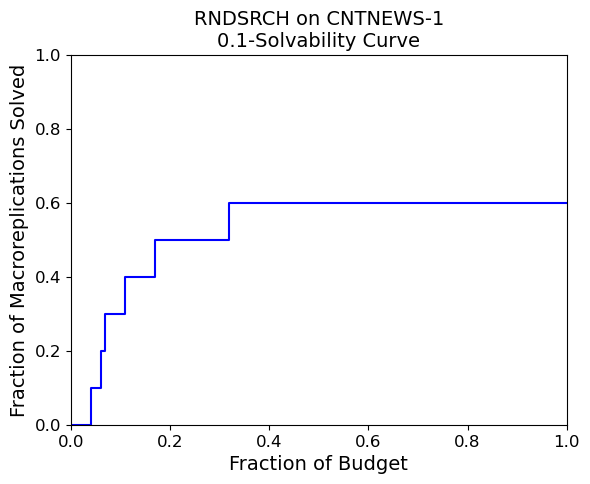
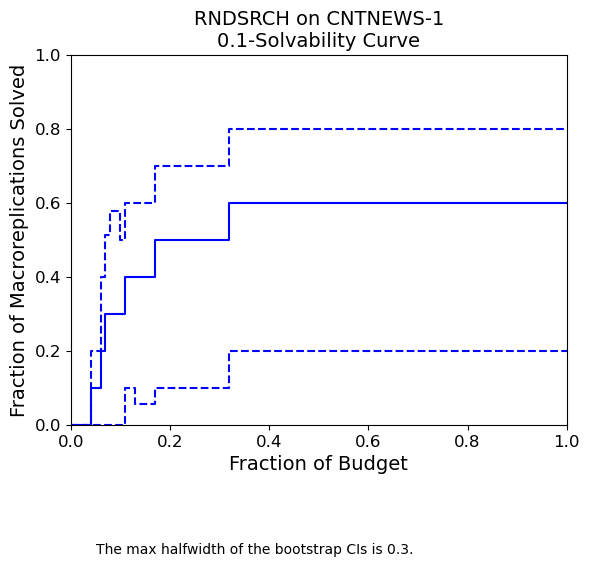
add bootstrap CIs to solvability curve
Add bootstrap CIs to solvability curve.

diff --git a/simopt/wrapper_base.py b/simopt/wrapper_base.py
@@ -80,7 +80,6 @@ class Experiment(object):
         crn_across_solns : bool
             indicates if CRN are used when simulating different solutions
         """
-        # initialize
         self.n_macroreps = n_macroreps
         # Create, initialize, and attach random number generators
         #     Stream 0: reserved for taking post-replications
@@ -219,41 +218,40 @@ class Experiment(object):
         plot_CIs : Boolean
             plot bootstrapping confidence intervals?
         """
-        # set up plot
+        # Set up plot.
         stylize_plot(plot_type=plot_type, solver_name=self.solver.name, problem_name=self.problem.name, normalize=normalize, budget=self.problem.budget, beta=beta)
-        # make the plot
         if plot_type == "all":
-            # plot all estimated progress curves
+            # Plot all estimated progress curves.
             if normalize is True:
                 for mrep in range(self.n_macroreps):
                     plt.step(self.unique_frac_budgets, self.all_prog_curves[mrep], where='post')
-            else:  # unnormalized
+            else:
                 for mrep in range(self.n_macroreps):
                     plt.step(self.unique_budgets, self.all_est_objective[mrep], where='post')
         elif plot_type == "mean":
-            # plot estimated mean progress curve
+            # Plot estimated mean progress curve.
             if normalize is True:
                 estimator = np.mean(self.all_prog_curves, axis=0)
                 plt.step(self.unique_frac_budgets, estimator, 'b-', where='post')
-            else:  # unnormalized
+            else:
                 estimator = np.mean(self.all_est_objective, axis=0)
                 plt.step(self.unique_budgets, estimator, 'b-', where='post')
         elif plot_type == "quantile":
-            # plot estimated beta quantile progress curve
+            # Plot estimated beta-quantile progress curve.
             if normalize is True:
                 estimator = np.quantile(self.all_prog_curves, q=beta, axis=0)
                 plt.step(self.unique_frac_budgets, estimator, 'b-', where='post')
-            else:  # unnormalized
+            else:
                 estimator = np.quantile(self.all_est_objective, q=beta, axis=0)
                 plt.step(self.unique_budgets, estimator, 'b-', where='post')
         else:
             print("Not a valid plot type.")
         if plot_type == "mean" or plot_type == "quantile":
-            # report bootstrapping error estimation and optionally plot bootstrap CIs
+            # Report bootstrapping error estimation and optionally plot bootstrap CIs.
             self.plot_bootstrap_CIs(plot_type, normalize, estimator, plot_CIs, beta)
         save_plot(plot_type=plot_type, normalize=normalize)
 
-    def plot_solvability_curve(self, solve_tol=0.50, plot_CIs=True):
+    def plot_solvability_curve(self, solve_tol=0.10, plot_CIs=True):
         """
         Plot the solvability curve for a single solver-problem pair.
         Optionally plot bootstrap CIs.
@@ -268,15 +266,20 @@ class Experiment(object):
         stylize_solvability_plot(solver_name=self.solver.name, problem_name=self.problem.name, solve_tol=solve_tol)
         # Compute solve times. Ignore quantile calculations.
         self.compute_solvability_quantile(compute_CIs=False, solve_tol=solve_tol)
-        # Construct full matrix showing when macroreplications are solved.
+        # Construct matrix showing when macroreplications are solved.
         solve_matrix = np.zeros((self.n_macroreps, len(self.unique_frac_budgets)))
-        # Pass over progress curve to find first solve_tol crossing time.
+        # Pass over progress curves to find first solve_tol crossing time.
         for mrep in range(self.n_macroreps):
             for budget_index in range(len(self.unique_frac_budgets)):
                 if self.solve_times[mrep] <= self.unique_frac_budgets[budget_index]:
                     solve_matrix[mrep][budget_index] = 1
+        # Compute proportion of macroreplications "solved" by intermediate budget.
         estimator = np.mean(solve_matrix, axis=0)
+        # Plot solvability curve.
         plt.step(self.unique_frac_budgets, estimator, 'b-', where='post')
+        if plot_CIs is True:
+            # Report bootstrapping error estimation and optionally plot bootstrap CIs.
+            self.plot_bootstrap_CIs(plot_type="solvability", normalize=True, estimator=estimator, plot_CIs=plot_CIs)
         save_plot(plot_type="solvability", normalize=True)
 
     def compute_area_stats(self, compute_CIs=True):
@@ -300,7 +303,7 @@ class Experiment(object):
             lower_bound, upper_bound, _ = self.bootstrap_CI(plot_type="area_std_dev", normalize=True, estimator=[self.area_std_dev], n_bootstraps=100, conf_level=0.95, bias_correction=True)
             self.area_std_dev_CI = [lower_bound[0], upper_bound[0]]
 
-    def compute_solvability_quantile(self, compute_CIs=True, solve_tol=0.5, beta=0.5):
+    def compute_solvability_quantile(self, compute_CIs=True, solve_tol=0.10, beta=0.50):
         """
         Compute beta quantile of alpha-solve time.
         Optionally compute bootstrap confidence intervals.
@@ -316,7 +319,8 @@ class Experiment(object):
         """
         self.solve_tol = solve_tol
         self.solve_times = [solve_time_of_prog_curve(prog_curve, self.unique_frac_budgets, self.solve_tol) for prog_curve in self.all_prog_curves]
-        self.solve_time_quantile = np.quantile(self.solve_times, q=beta, interpolation="higher")
+        self.solve_time_quantile = np.quantile(self.solve_times, q=beta)
+        # The default method for np.quantile is a *linear* interpolation.
         if compute_CIs is True:
             lower_bound, upper_bound, _ = self.bootstrap_CI(plot_type="solve_time_quantile", normalize=True, estimator=[self.solve_time_quantile], beta=beta)
             self.solve_time_quantile_CI = [lower_bound[0], upper_bound[0]]
@@ -415,6 +419,7 @@ class Experiment(object):
                 "area_mean" : mean of area under convergence curve
                 "area_std_dev" : standard deviation of area under progress curve
                 "solve_time_quantile" : beta quantile of solve time
+                "solvability" : estimated solvability curve
         normalize : Boolean
             normalize progress curves w.r.t. optimality gaps?
         estimator : numpy array
@@ -440,7 +445,7 @@ class Experiment(object):
         # Create random number generator for bootstrap sampling.
         # Stream 1 dedicated for bootstrapping.
         bootstrap_rng = MRG32k3a(s_ss_sss_index=[1, 0, 0])
-        if plot_type == "mean" or plot_type == "quantile":
+        if plot_type == "mean" or plot_type == "quantile" or plot_type == "solvability":
             n_intervals = len(self.unique_budgets)
         elif plot_type == "area_mean" or plot_type == "area_std_dev" or plot_type == "solve_time_quantile":
             n_intervals = 1
@@ -468,7 +473,18 @@ class Experiment(object):
                 bs_aggregate_objects[bs_index] = np.std(areas, ddof=1)
             elif plot_type == "solve_time_quantile":
                 solve_times = [solve_time_of_prog_curve(prog_curve, self.unique_frac_budgets, self.solve_tol) for prog_curve in bootstrap_prog_curves]
-                bs_aggregate_objects[bs_index] = np.quantile(solve_times, q=beta, interpolation="higher")
+                bs_aggregate_objects[bs_index] = np.quantile(solve_times, q=beta)
+            elif plot_type == "solvability":
+                solve_times = [solve_time_of_prog_curve(prog_curve, self.unique_frac_budgets, self.solve_tol) for prog_curve in bootstrap_prog_curves]
+                # Construct full matrix showing when macroreplications are solved.
+                solve_matrix = np.zeros((self.n_macroreps, len(self.unique_frac_budgets)))
+                # Pass over progress curve to find first solve_tol crossing time.
+                for mrep in range(self.n_macroreps):
+                    for budget_index in range(len(self.unique_frac_budgets)):
+                        if solve_times[mrep] <= self.unique_frac_budgets[budget_index]:
+                            solve_matrix[mrep][budget_index] = 1
+                bs_aggregate_objects[bs_index] = np.mean(solve_matrix, axis=0)
+
         # Compute bootstrapping confidence intervals via percentile method.
         # See Efron and Gong (1983) "A leisurely look at the bootstrap,
         #     the jackknife, and cross-validation."
@@ -490,7 +506,7 @@ class Experiment(object):
         return bs_CI_lower_bounds, bs_CI_upper_bounds, max_halfwidth
 
     def plot_bootstrap_CIs(self, plot_type, normalize, estimator, plot_CIs,
-                           beta):
+                           beta=None):
         """
         Optionally plot bootstrap confidence intervals and report max
         half-width.
@@ -502,6 +518,7 @@ class Experiment(object):
                 "all" : all estimated progress curves
                 "mean" : estimated mean progress curve
                 "quantile" : estimated beta quantile progress curve
+                "solvability" : estimated solvability curve
         normalize : Boolean
             normalize progress curves w.r.t. optimality gaps?
         estimator : numpy array

diff --git a/simopt/test_run_wrapper.py b/simopt/test_run_wrapper.py
@@ -17,7 +17,7 @@ myexperiment2.record_post_replicate_results(file_name="post_newsvendor")
 myexperiment3 = read_post_replicate_results(file_name="post_newsvendor")
 #myexperiment3.compute_area_stats()
 #myexperiment3.compute_solvability_quantile()
-myexperiment3.plot_solvability_curve(solve_tol=0.1, plot_CIs=False)
+myexperiment3.plot_solvability_curve(solve_tol=0.1, plot_CIs=True)
 # myexperiment3.plot_progress_curves(plot_type="all")
 # myexperiment3.plot_progress_curves(plot_type="mean")
 # myexperiment3.plot_progress_curves(plot_type="quantile")
